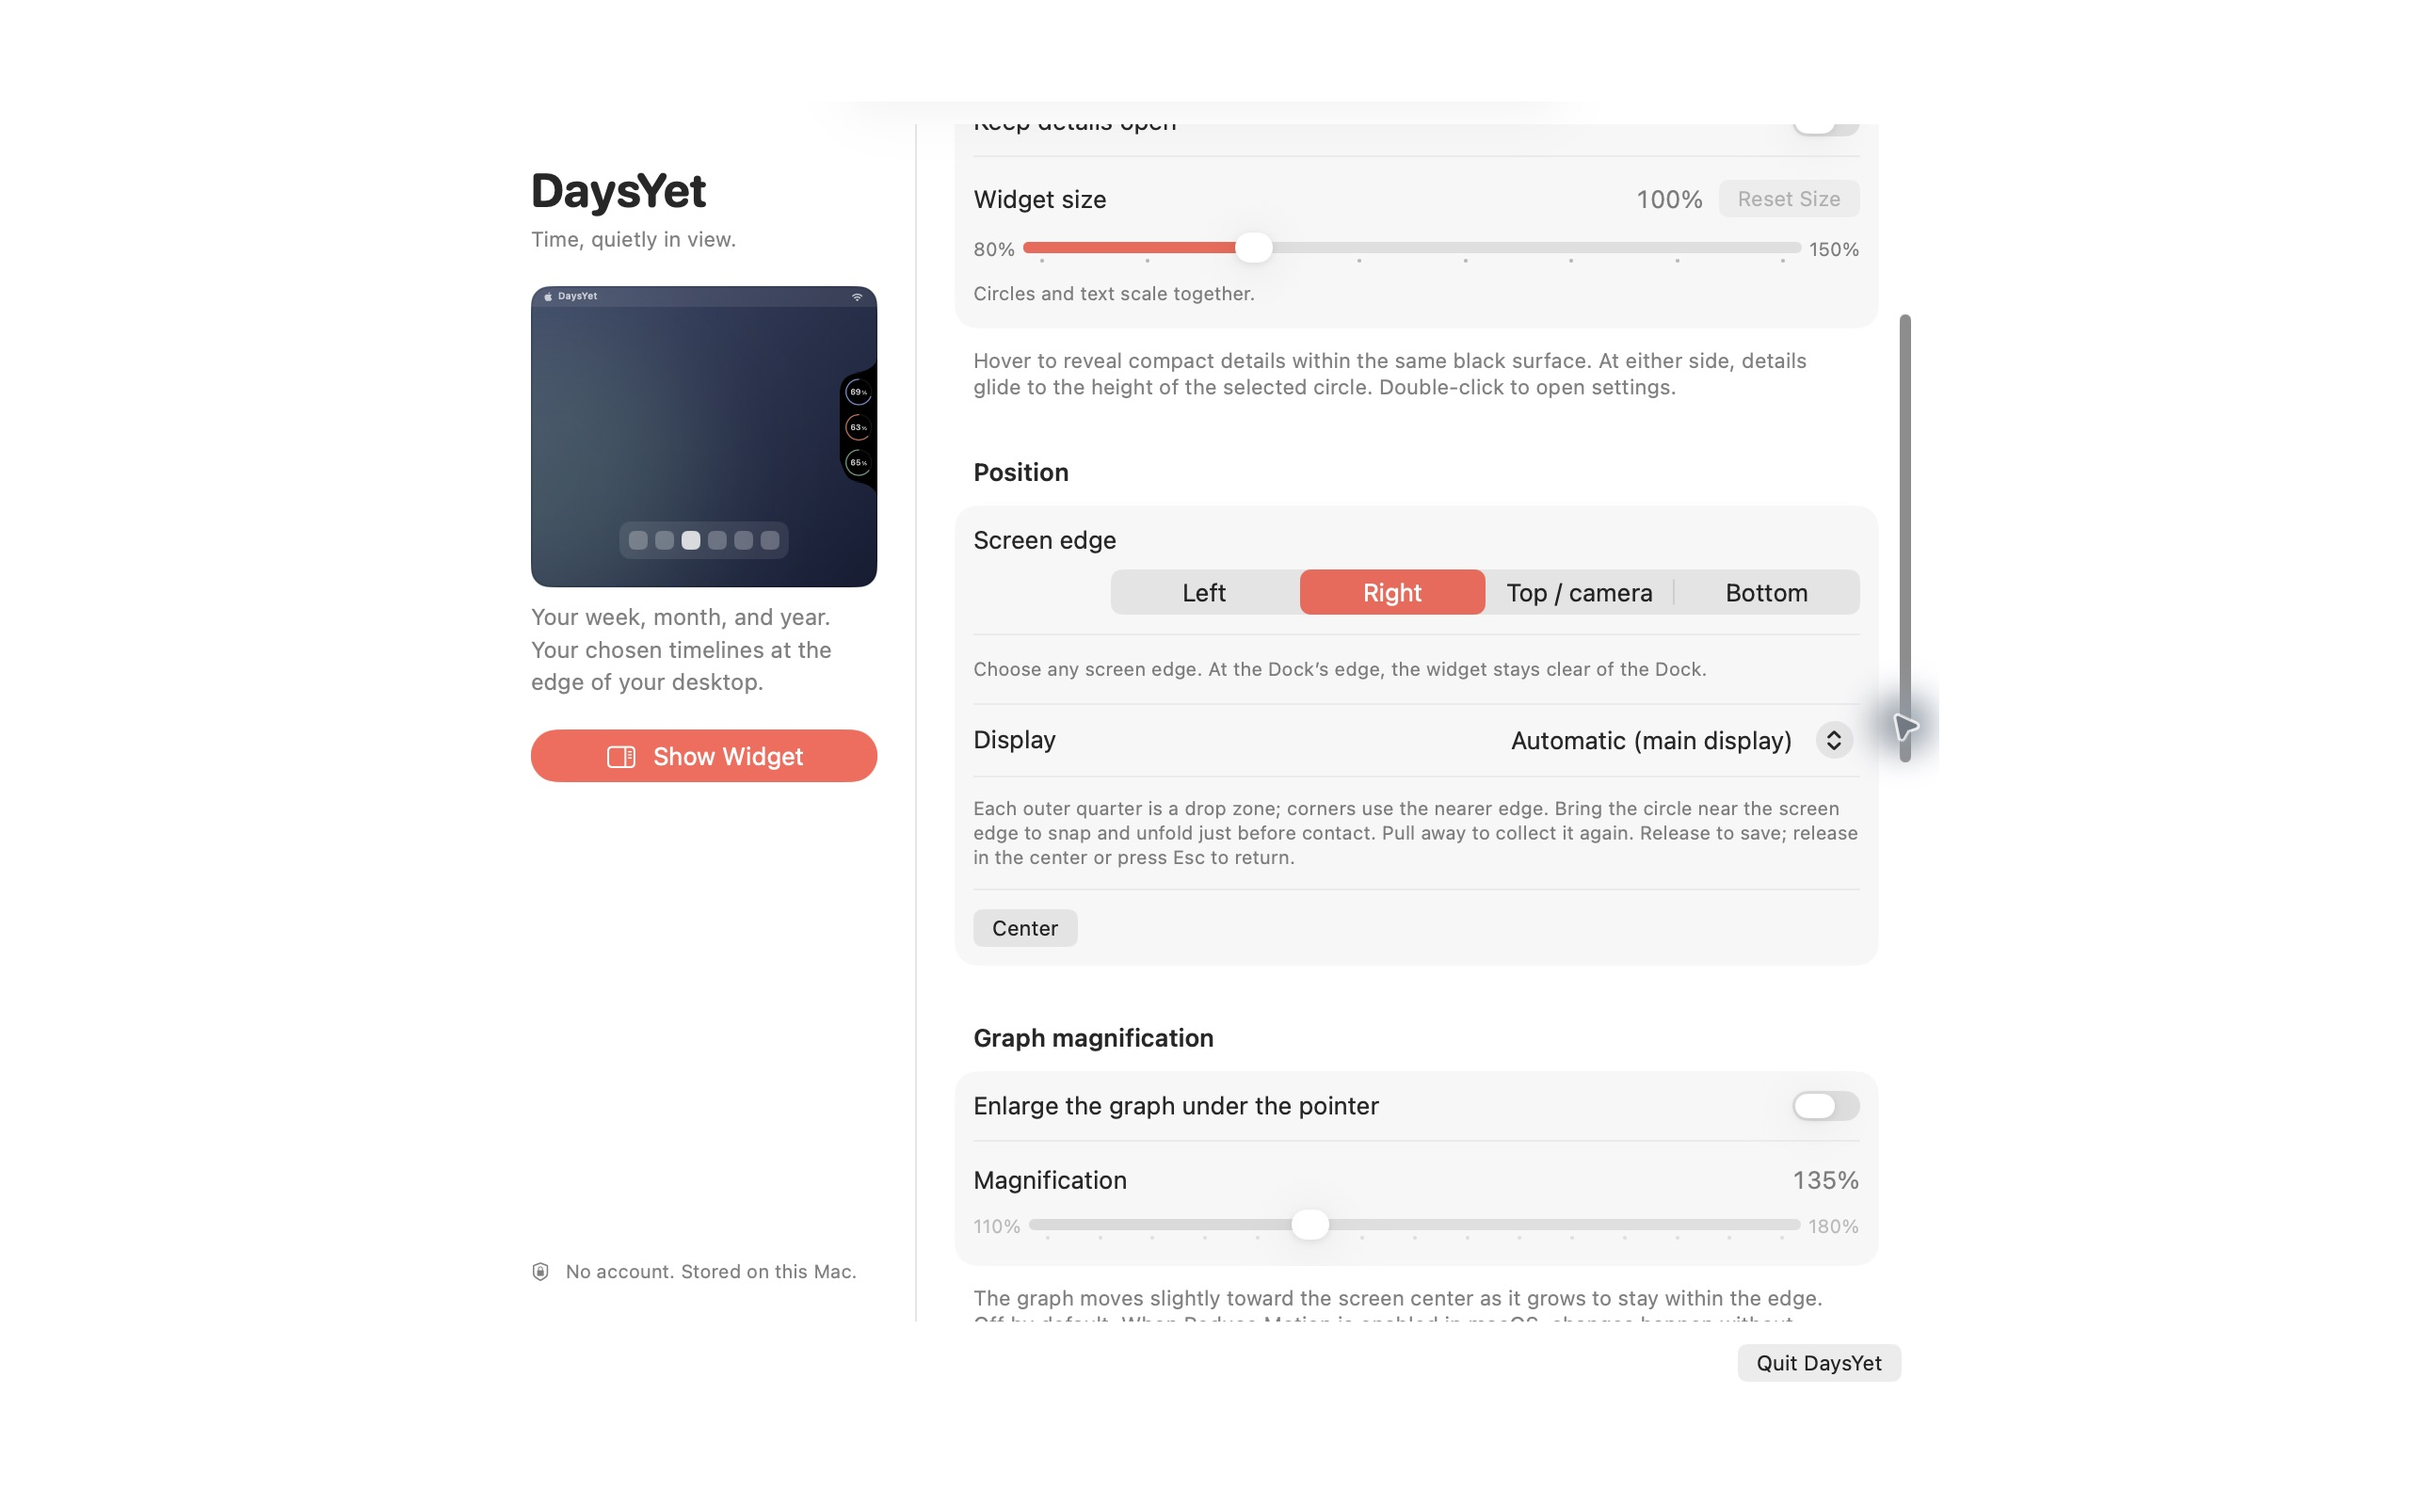
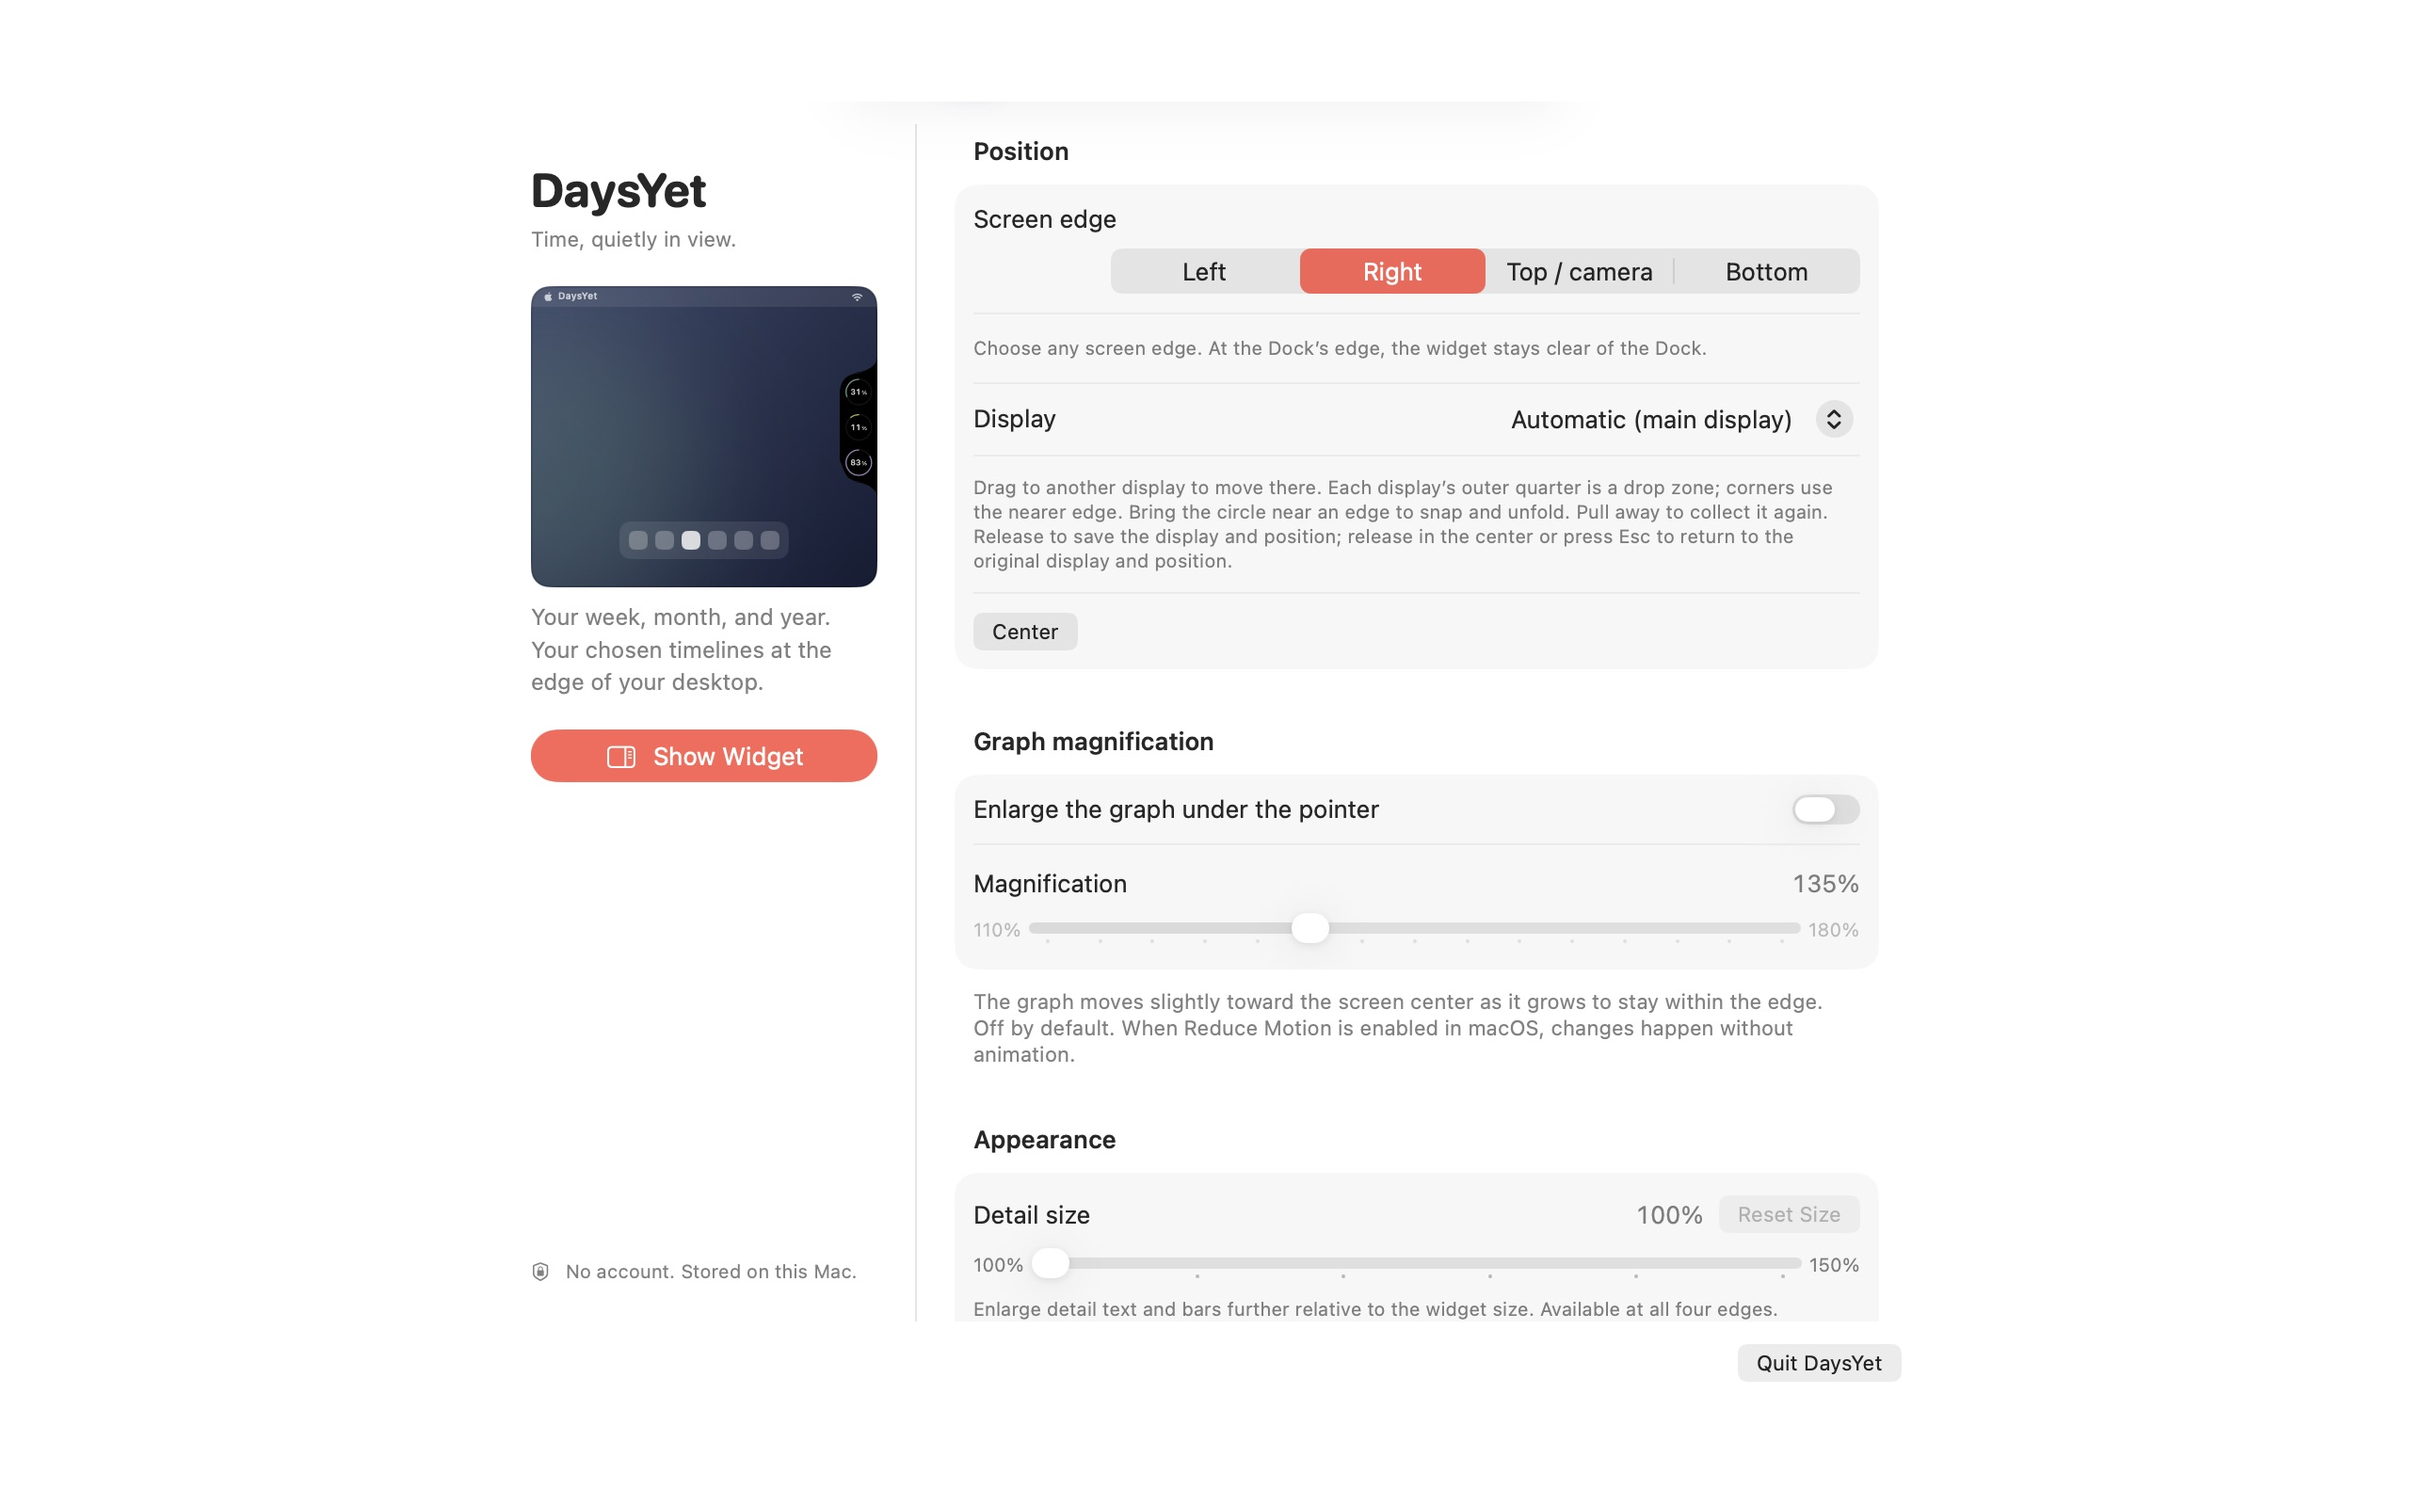
Prepare macOS 0.2.2 App Store release

diff --git a/AppStore/releases/0.2.2-macos.md b/AppStore/releases/0.2.2-macos.md
@@ -1,0 +1,29 @@
+# macOS 0.2.2
+
+Status on 2026-11-21: **macOS 0.2.2 (15) is in candidate preparation.** App Store Connect confirmed macOS 0.2.1 Ready for Distribution, and a new 0.2.2 draft was created on the existing DaysYet record. Archive, validation, upload, processing, App Review submission, approval, and public availability of 0.2.2 are not yet confirmed. This update targets macOS only; iOS remains 0.2.1 (17).
+
+## Changes and source
+
+- Widgets can be dragged between displays, with the destination display and position saved after release. Canceling returns to the original display and position.
+- Edge attachment, travel, and unfolding are slower and smoother, making movement easier to follow.
+- Existing dates, schedules, colors, and display preferences are preserved.
+
+Preparation began from main `3731112`, which merges the multi-display fix in [PR #63](https://github.com/hinoshiba/DaysYet/pull/63) and the edge-motion adjustment in [PR #64](https://github.com/hinoshiba/DaysYet/pull/64). The exact archived release commit and immutable release tag will be recorded after source preparation and verification are complete.
+
+## Verification
+
+The candidate uses Xcode 26.6 (17F113) and XcodeGen 2.45.4.
+
+- 408 Mac unit tests passed, zero failures.
+- Release compliance checks passed with `./Scripts/check-compliance.sh --release`.
+- The redacted Gitleaks scan of all history found no leaks in 102 scanned commits.
+- 151 iOS regression tests passed, zero failures.
+- Japanese and English Mac settings screenshots were refreshed and visually reviewed. All fourteen images passed SHA-256, dimensions, and RGB/no-alpha checks. Native settings pixels match the screenshot crop without resampling or retouching.
+- Japanese/English settings and all four edge selections were smoke-tested with isolated synthetic data. The available Mac has one display; no physical multi-display or new VoiceOver/Reduce Motion system-setting test is claimed.
+- Exact-release-commit hosted CI verification remains in progress.
+
+Japanese and English update notes are prepared under `AppStore/macos/metadata/`. Mac review notes describe cross-display movement, relaunch persistence, cancellation, and the slower animation. The two widget-settings screenshots were refreshed because the placement guidance changed; the other twelve screenshots depict unchanged functionality and were retained after visual review. All images are 2560 × 1600. The photography apps use separate identities, synthetic nonpersistent profiles, and temporary preferences outside the checkout. They were quit after capture. Store asset upload remains pending.
+
+## Distribution
+
+Archive, Organizer validation and upload, Apple processing, build selection, and App Review submission remain pending. Retain the existing App Store record's shared names, categories, pricing, availability, privacy disclosures, and release settings. Signed archives, symbols, signing material, and private release evidence stay outside the public checkout.

diff --git a/AppStore/macos/screenshots/README.md b/AppStore/macos/screenshots/README.md
@@ -1,6 +1,6 @@
 # Native Mac screenshots
 
-The Japanese and English folders contain seven screenshots each. The two widget-settings images were refreshed on 2026-11-11 from macOS 0.2.1 (14), with the default App Store feature flags and synthetic data. They show all four screen edges and placement clear of the Dock. The other twelve images from 0.2.0 (13) depict unchanged functionality and are retained. See the [0.2.1 release record](../../releases/0.2.1.md) for submission status.
+The Japanese and English folders contain seven screenshots each. The two widget-settings images were refreshed on 2026-11-21 from macOS 0.2.2 (15), with the default App Store feature flags and synthetic data. They show all four screen edges, placement clear of the Dock, and the updated cross-display movement and cancellation guidance. The other twelve images from 0.2.0 (13) depict unchanged functionality and are retained. See the [0.2.2 release record](../../releases/0.2.2-macos.md) for submission status.
 
 | File | Current app content |
 | --- | --- |
